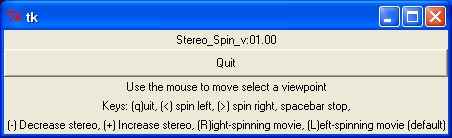
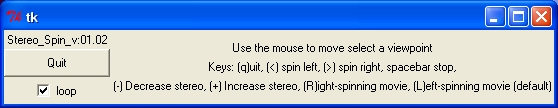
2010-05-31  Russell M. Taylor II  <taylorr@cs.unc.edu>
* stereo_spin.cpp : Version 01.02, includes the ability to play
		non-looping videos and correctly handles resizing of the
		window in cross-eyed stereo mode.
	* stereo_spin.tcl : Same.

Changed region(s): [[0.0, 0.0, 1.0, 0.9722], [0.4027, 0.3889, 0.7743, 0.5]]

diff --git a/stereo_spin/stereo_spin.html b/stereo_spin/stereo_spin.html
@@ -1,6 +1,6 @@
-<title>Stereo Spin V01.01</title>
+<title>Stereo Spin V01.02</title>
 
-<h1>Stereo Spin version 01.01</h1>
+<h1>Stereo Spin version 01.02</h1>
 
 <p>The <i><b>Stereo Spin </b></i> program is used to display stereo images from 
   a spinning video from a <a href="http://www.microsoft.com/directx">Microsoft 
@@ -68,7 +68,15 @@
 <p>The movie can spin either to the left or to the right. The program starts expecting 
   movies where the object spins to the left, but the <b><i>L</i></b> and <b><i>R</i></b> 
   keys can be used to switch direction as described below.</p>
-<h2><img src="main_tcl.jpg" width="452" height="138" align="right">Using the program</h2>
+<p><b>Non-looped video:</b> It is also possible to use <i>Stereo Spin</i> to show 
+  videos that do not loop; for example, images taken by a camera that has been 
+  translated along a rail to produce views that can be fused into stereo but which 
+  do not form a cycle -- the last image cannot be fused with the first. In this 
+  case, uncheck the <b><i>loop</i></b> checkbox to prevent the video from running 
+  past the end. Optionally, this can be done using the <i>-noloop </i>command-line 
+  argument when the program is started.</p>
+<p></p>
+<h2><img src="main_tcl.jpg" width="558" height="108" align="right">Using the program</h2>
 
 <p>When the program is run and a file is selected, three windows will appear. 
   The control panel named <b><i>tk</i></b> that appears on the top when the program 
@@ -140,6 +148,12 @@
 </ul>
 <h2>Version Information</h2>
 
+<h3>Version 01.02:</h3>
+<ul>
+  <li>Enables display of non-looped videos.</li>
+  <li>Properly resizes in cross-eyed stereo mode.</li>
+</ul>
+<h3></h3>
 <h3>Version 01.01:</h3>
 <ul>
   <li>When hardware stereo is not available, displays cross-eyed stereo..</li>

diff --git a/stereo_spin.cpp b/stereo_spin.cpp
@@ -2,8 +2,6 @@
 // stereo_spin.cpp : Source code to read in an AVI or stack of TIFF files and
 // display it in stereo, spinning or using the mouse to control viewpoint.
 
-// XXX Support cross-eyed stereo when hardware is not available?
-
 #ifdef _WIN32
 #define	VST_USE_DIRECTX
 #endif
@@ -58,7 +56,7 @@ const double M_PI = 2*asin(1.0);
 
 //--------------------------------------------------------------------------
 // Version string for this program
-const char *Version_string = "01.01";
+const char *Version_string = "01.02";
 
 //--------------------------------------------------------------------------
 // Glut wants to take over the world when it starts, so we need to make
@@ -81,6 +79,8 @@ Tclvar_int_with_button	g_window_offset_y("window_offset_y",NULL,0);  //< Offset 
 Tclvar_int_with_button	g_window_offset_x("window_offset_x",NULL,25);  //< Offset windows more in some arch
 Tclvar_int_with_button	g_window_offset_y("window_offset_y",NULL,-10);  //< Offset windows more in some arch
 #endif
+Tclvar_selector		g_program_name("program_name", NULL, NULL, "");
+Tclvar_int_with_button	g_loop("loop",NULL,1);    //< Does the video work in a loop?
 
 int		    g_tracking_window;		  //< Glut window displaying tracking
 unsigned char	    *g_glut_image = NULL;	  //< Pointer to the storage for the image
@@ -189,6 +189,31 @@ GLenum check_for_opengl_errors(const char *msg)
   return errcode;
 }
 
+// Check to make sure that we stay within the bounds of the images we can
+// show.  If we're looping, then we can go past the left and right
+// boundaries and keep showing.  Otherwise, we need to stop when the
+// appropriate eye hits its boundary.
+static void check_image_bounds(void)
+{
+  if (g_loop) {
+    while (g_which_image >= static_cast<int>(g_texture_ids.size())) {
+      g_which_image -= g_texture_ids.size();
+    }
+    while (g_which_image < 0) {
+      g_which_image += g_texture_ids.size();
+    }
+  } else {
+    if (g_which_image + g_disparity >= static_cast<int>(g_texture_ids.size())) {
+      g_which_image = g_texture_ids.size() - g_disparity - 1;
+      g_image_delta = 0;
+    }
+    if (g_which_image < 0) {
+      g_which_image = 0;
+      g_image_delta = 0;
+    }
+  }
+}
+
 void myDisplayFunc(void)
 {
   if (!g_ready_to_display) { return; }
@@ -204,7 +229,7 @@ void myDisplayFunc(void)
   if (g_stereo) {
     glDrawBuffer(GL_BACK_LEFT);
   } else {
-    glViewport(g_camera->get_num_columns(), 0, g_camera->get_num_columns(), g_camera->get_num_rows());
+    glViewport(glutGet(GLUT_WINDOW_WIDTH)/2, 0, glutGet(GLUT_WINDOW_WIDTH)/2, glutGet(GLUT_WINDOW_HEIGHT));
   }
 
   //--------------------------------------------------------------------
@@ -247,7 +272,7 @@ void myDisplayFunc(void)
       glBindTexture(GL_TEXTURE_2D, g_texture_ids[right_eye]);
       g_camera->write_opengl_texture_to_quad();
     } else {
-      glViewport(0, 0, g_camera->get_num_columns(), g_camera->get_num_rows());
+      glViewport(0, 0, glutGet(GLUT_WINDOW_WIDTH)/2, glutGet(GLUT_WINDOW_HEIGHT));
       glBindTexture(GL_TEXTURE_2D, g_texture_ids[right_eye]);
       g_camera->write_opengl_texture_to_quad();
     }
@@ -259,12 +284,7 @@ void myDisplayFunc(void)
   // Go to the next image we're supposed to show, keeping us in
   // bounds.
   g_which_image += g_image_delta;
-  while (g_which_image >= static_cast<int>(g_texture_ids.size())) {
-    g_which_image -= g_texture_ids.size();
-  }
-  while (g_which_image < 0) {
-    g_which_image += g_texture_ids.size();
-  }
+  check_image_bounds();
 
   // Check for OpenGL errors during our action here.
   check_for_opengl_errors("myDisplayFunc after drawing");
@@ -359,8 +379,12 @@ void myIdleFunc(void)
       }
 
       // Display the loaded images in a movie loop while they are coming in,
-      // to give the user something to watch while it is loading.
+      // to give the user something to watch while it is loading.  The right
+      // eye is what is displayed in the left part of the image, so we should
+      // keep it as the one we want to show.
       g_ready_to_display = true;
+      g_which_image = g_texture_ids.size() - g_disparity - 1;
+      check_image_bounds();
       myDisplayFunc();
 
       // Handle Tcl events, so the user can quit if they want to.
@@ -389,6 +413,15 @@ void myIdleFunc(void)
     // We're ready to display an image.
     g_ready_to_display = true;
     myDisplayFunc();
+
+    //------------------------------------------------------------------
+    // Start spinning the object if we're in a looped video.  This will
+    // have been stopped by the loading code in check_image_bounds() because
+    // we tried to display a stereo view when there was only one image
+    // loaded.
+    if (g_loop) {
+      g_image_delta = 1;
+    }
 
     loaded_images = true;
   }
@@ -451,9 +484,12 @@ void keyboardCallbackForGLUT(unsigned char key, int x, int y)
     g_spin_left = true;
     break;
 
-  case '+': // larger stereo separation
+  case '+': // larger stereo separation.
   case '=':
     g_disparity += 1;
+    if (g_disparity >= static_cast<int>(g_texture_ids.size())) {
+      g_disparity = g_texture_ids.size() - 1;
+    }
     break;
 
   case '-': // smaller stereo separation
@@ -550,12 +586,7 @@ void motionCallbackForGLUT(int raw_x, int raw_y)
       xScale = (g_texture_ids.size()*1.0)/glutGet(GLUT_WINDOW_WIDTH);
       int delta_frames = x_motion_in_pixels * xScale;
       g_which_image = g_mousePressImage + delta_frames;
-      while (g_which_image >= static_cast<int>(g_texture_ids.size())) {
-        g_which_image -= g_texture_ids.size();
-      }
-      while (g_which_image < 0) {
-        g_which_image += g_texture_ids.size();
-      }
+      check_image_bounds();
     }
     break;
 
@@ -594,7 +625,8 @@ void  device_filename_changed(const char *newvalue, void *)
 
 void Usage(const char *progname)
 {
-    fprintf(stderr, "Usage: %s [filename]\n", progname);
+    fprintf(stderr, "Usage: %s [-noloop] [filename]\n", progname);
+    fprintf(stderr,"        -noloop: Don't loop from the end of the movie back to the beginning\n");
     fprintf(stderr, "       filename: The source file for tracking can be specified here (default is\n");
     fprintf(stderr, "                 a dialog box)\n");
     exit(-1);
@@ -649,19 +681,9 @@ int main(int argc, char *argv[])
   }
 
   //------------------------------------------------------------------
-  // Put the version number into the main window.
-  sprintf(command, "label .versionlabel -text Stereo_Spin_v:%s", Version_string);
-  if (Tcl_Eval(g_tk_control_interp, command) != TCL_OK) {
-          fprintf(stderr, "Tcl_Eval(%s) failed: %s\n", command,
-                  g_tk_control_interp->result);
-          return(-1);
-  }
-  sprintf(command, "pack .versionlabel");
-  if (Tcl_Eval(g_tk_control_interp, command) != TCL_OK) {
-          fprintf(stderr, "Tcl_Eval(%s) failed: %s\n", command,
-                  g_tk_control_interp->result);
-          return(-1);
-  }
+  // Fill in the program name/version number for the GUI to display.
+  sprintf(command, "Stereo_Spin_v:%s", Version_string);
+  g_program_name = command;
 
   //------------------------------------------------------------------
   // Load the specialized Tcl code needed by this program.  This must
@@ -702,8 +724,8 @@ int main(int argc, char *argv[])
   // These defaults are set for a Pulnix camera
 
   for (i = 1; i < argc; i++) {
-    if (!strncmp(argv[i], "-XXX", strlen("-XXX"))) {
-      //XXX;
+    if (!strncmp(argv[i], "-noloop", strlen("-noloop"))) {
+      g_loop = 0;
     } else if (argv[i][0] == '-') {
       Usage(argv[0]);
     } else {
